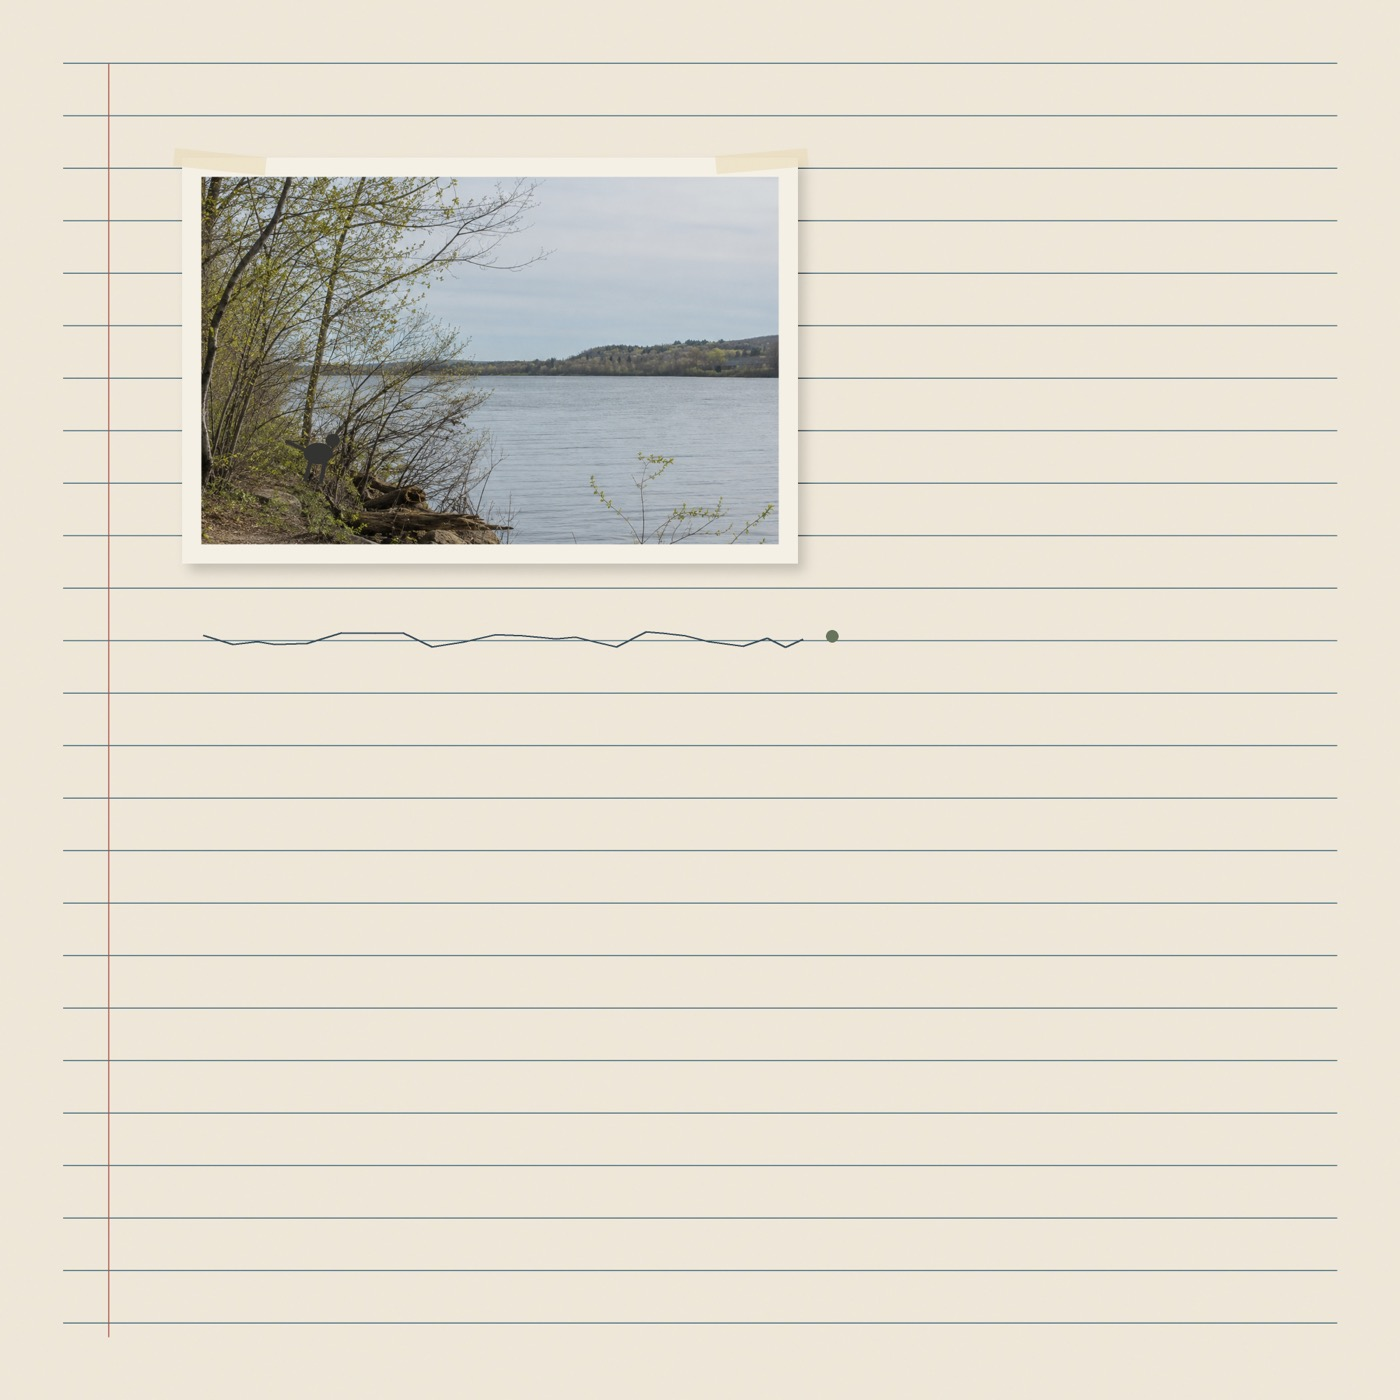
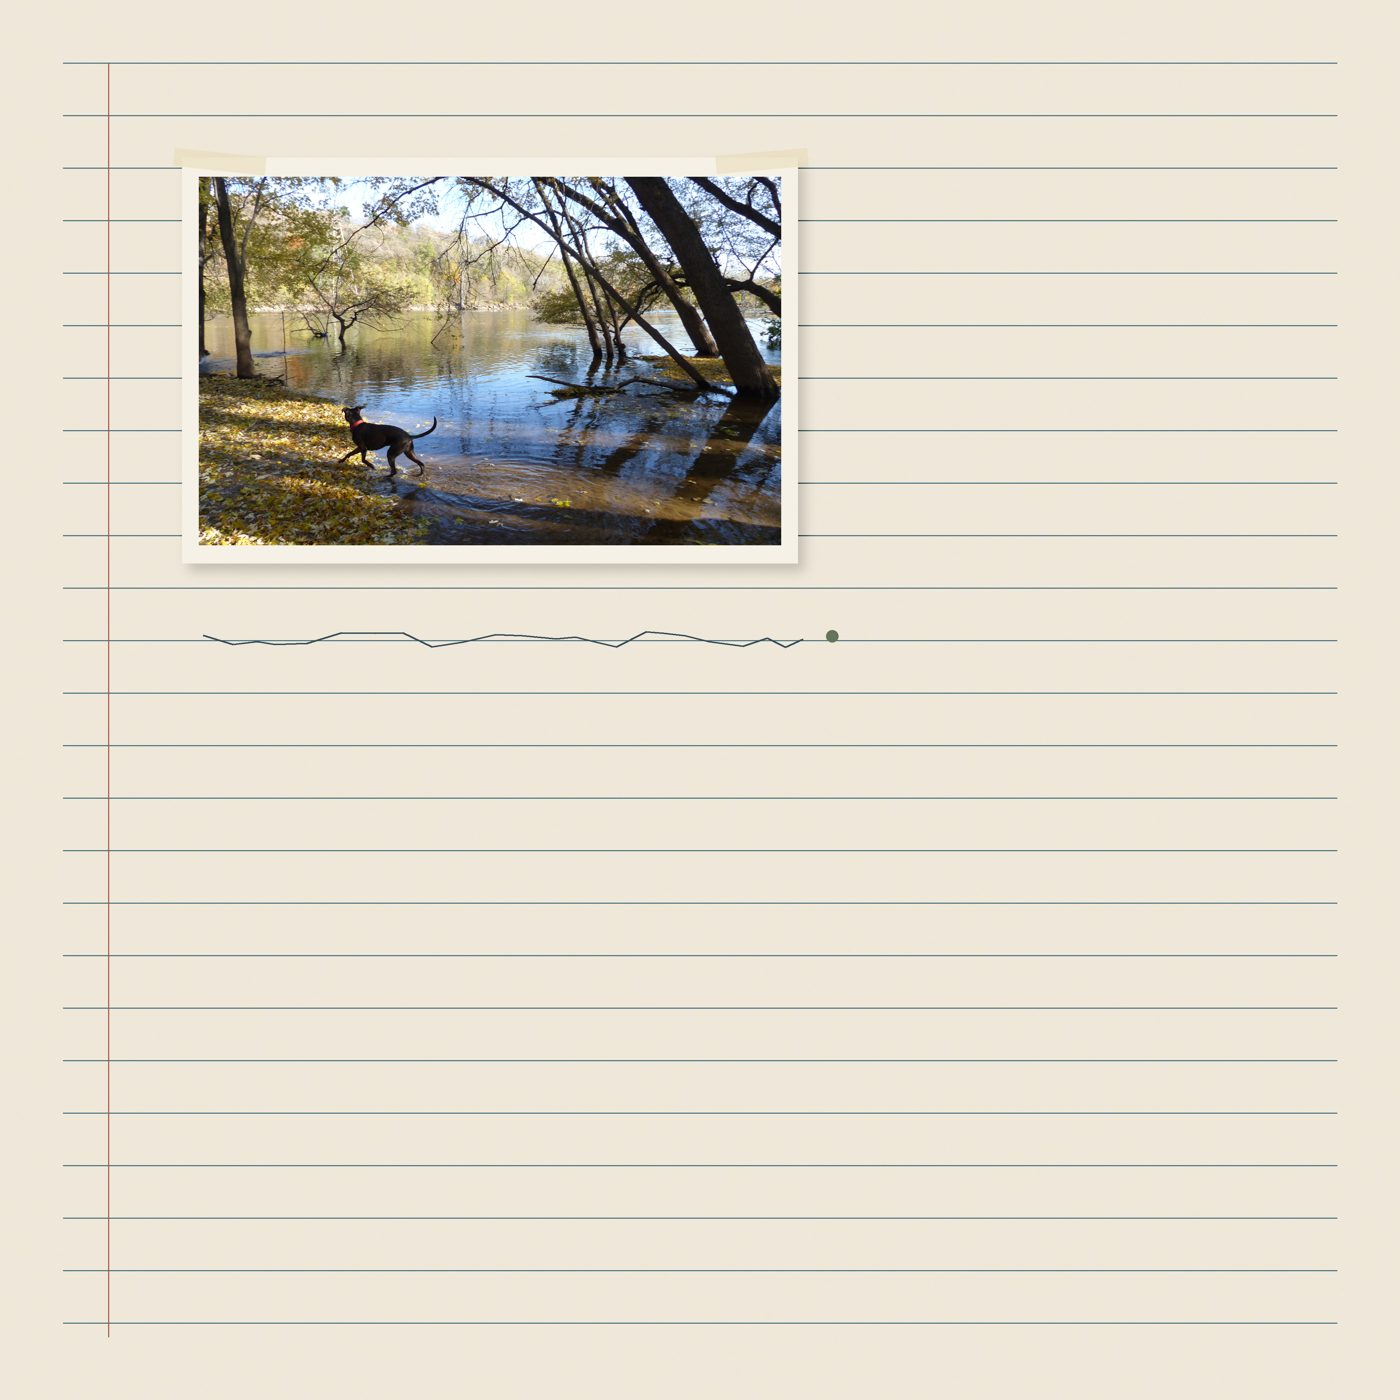
The dog steps into the water, and the notebook leaf stays a drawing

Changed region(s): [[0.1229, 0.1229, 0.5836, 0.3993]]

diff --git a/prompts/image-manifest.md b/prompts/image-manifest.md
@@ -35,7 +35,7 @@ the next build, so the proof PDF always shows exactly what has and has not been 
 | ordinary-days-01g3-tree-autumn | Most of Life Is a Tuesday | I — Look Again | Unplaced, recorded 21 Aug 2026. The file exists and this entry describes the spread it was made for, but it appears nowhere in the built book — verified against build/book.html, not inferred. The book reached its 130-page ceiling by cutting spreads (see book.config.js), and these entries were never updated when their spread went. Original spread: “Sequence (recto, strip of four) · 01G”. | overlays | The same stretch of lakeshore in autumn, identical framing, overprinted with that visit's measurements set in a small ruled block: leaf area 2.2 · day length 11h 18m · water 14 °C · 2 species calling. The photograph is unremarkable; the data is exact. | The route repeats. The world does not. | Frame of four in the sequence strip. The frame must not move between visits — the data is the only thing allowed to change. | 3:4 | 3600 × 4800 px | ordinary-days-01g3-tree-autumn.jpg | generated | — | Specimen color moss #68735B on the chip; the overlay block shifts to amber for this frame, so the strip reads as a color ramp across the seasons before a single figure is read. |
 | ordinary-days-01g4-tree-winter | Most of Life Is a Tuesday | I — Look Again | Unplaced, recorded 21 Aug 2026. The file exists and this entry describes the spread it was made for, but it appears nowhere in the built book — verified against build/book.html, not inferred. The book reached its 130-page ceiling by cutting spreads (see book.config.js), and these entries were never updated when their spread went. Original spread: “Sequence (recto, strip of four) · 01G”. | overlays | The same stretch of lakeshore in winter, identical framing, overprinted with that visit's measurements set in a small ruled block: leaf area 0.0 · day length 8h 54m · water 2 °C · silence. The photograph is unremarkable; the data is exact. | The route repeats. The world does not. | Frame of four in the sequence strip. The frame must not move between visits — the data is the only thing allowed to change. | 3:4 | 3600 × 4800 px | ordinary-days-01g4-tree-winter.jpg | generated | — | Specimen color moss #68735B on the chip; the overlay block shifts to rust for this frame, so the strip reads as a color ramp across the seasons before a single figure is read. |
 | ordinary-days-01i-kitchen-light | Most of Life Is a Tuesday | I — Look Again | Unplaced, recorded 21 Aug 2026. The file exists and this entry describes the spread it was made for, but it appears nowhere in the built book — verified against build/book.html, not inferred. The book reached its 130-page ceiling by cutting spreads (see book.config.js), and these entries were never updated when their spread went. Original spread: “Image + essay · band (crossover) · 01H”. | archival | An album leaf: one photograph of someone standing in kitchen light, corner-mounted, surrounded by the residue of an ordinary life — a grocery receipt, a note in handwriting, a pressed leaf, a ticket stub — arranged with care on aged cream. Nothing legible enough to read as text. | The extraordinary person, become the person in the kitchen. | Crossover band. The one place in the essay where the apparatus stops and the book just looks at somebody. | 2:1 | 8000 × 4000 px | ordinary-days-01i-kitchen-light.jpg | generated | — | Specimen color moss #68735B. Keep the figure fully on one page; nothing of interest within 15 mm of the fold. No measurement, no key, no diagram anywhere on this spread — it earns its silence by following six pages of instruments. |
-| ordinary-days-01j-quiet-close | Most of Life Is a Tuesday | I — Look Again | Closing spread (verso, full bleed) · 01I | field notes | The last leaf of a field notebook: one photograph taped in — late-afternoon lake, an empty path, or a dog walking away — with a single line of handwriting beneath it and three-quarters of the page left blank. The ruling shows through. | The book putting you back down where it found you. | Closing image. Not spectacular; that is the requirement, not a limitation. | 1:1 | 4000 × 4000 px | ordinary-days-01j-quiet-close.jpg | generated | — | Specimen color moss #68735B, used once, small. The blank is doing the work — do not fill it. |
+| ordinary-days-01j-quiet-close | Most of Life Is a Tuesday | I — Look Again | Closing spread (verso, full bleed) · 01I | field notes | The last leaf of a field notebook: one photograph taped in — a black dog stepping into the flooded edge of a river in late afternoon, autumn leaves down to the waterline, leaning trees doubled in still water — with a single line of handwriting beneath it and three-quarters of the page left blank. The ruling shows through. | The book putting you back down where it found you. | Closing image. Not spectacular; that is the requirement, not a limitation. The photograph is now the same afternoon the contact sheet three spreads earlier is drawn from — 23 minutes after the last of those three frames — so the essay ends on the end of the day it has been showing. | 1:1 | 4000 × 4000 px | ordinary-days-01j-quiet-close.jpg | generated | Chosen by eye from a 132-frame contact sheet of the whole 21 Oct 2018 walk. Deliberately not P1080372, which is another dog-nose-down-in-leaves and would echo both `walk-01` and the essay-08 opener. | Photograph replaced 22 Aug 2026. The taped-in image was generated and its own subject line could not decide what it showed: “late-afternoon lake, an empty path, OR a dog walking away.” It is now `P1080416.JPG`, Adam's, and it is the first two of those three things at once. Composited INTO the existing mount rather than replacing the plate: the ruled leaf, the tape, the print border, the illegible squiggle and the blank three-quarters are all original artwork and all untouched. Measured mount box 568,505–2232,1558 at 4000 px; the 4:3 original was cropped to the mount's 1.58 from 234 px down, which trims empty sky and keeps the dog, the bank and the reflections. THE PAGE AROUND THE PHOTOGRAPH IS STILL DRAWN — this entry reads `own photograph` because the photograph is the subject, but the leaf is a treatment. Specimen color moss #68735B, used once, small. The blank is doing the work — do not fill it. |
 | ordinary-days-01k-room-survey | Most of Life Is a Tuesday | I — Look Again | Unplaced, replaced 21 Aug 2026. The inset on the essay's third reading spread now carries `ordinary-days-01l-fabiola-sign`, and the spread's inset moved to the recto beside the prose about labels and the people underneath them. File kept on disk. | overlays | A sunlit living room surveyed in two inks: proportional rectangles, construction circles and dimension lines in faded cobalt over the window, sofa and table; branching rust hairlines following the monstera's growth and the light's path. A dog asleep in its bed at the right edge, measured like everything else. | A whole ordinary room, taken seriously enough to measure. | Companion to 01A's surveyed dog — the same joke told at room scale. Generated 20 Aug 2026 from the room-survey prompt; kept with an ID so it is ready the day a spread wants it. | 1:1 | 1254 × 1254 px (native — not upscaled) | ordinary-days-01k-room-survey.png | generated | undefined | Second generation. The first ran its survey at watermark strength and the linework vanished over bright areas; the prompt now names the two inks (cobalt #536D8E structure, rust #A95738 organic traces), demands full opacity and drafting rather than sketching, and forbids the fade over bright areas. Note the units came back imperial — if this is ever placed beside 01A, which is dimensioned in millimetres, regenerate with units named. Placed 20 Aug 2026 as the inset on the spread whose prose says ordinary reality becomes almost impossibly complex — the caption owns the imperial units instead of apologising for them. |
 | attention-01-familiar-room | The Secret Life of Attention | I — Look Again | Essay opener (verso, full page) | overlays | A sunlit living room in daylight: a sofa with cushions and a throw, a monstera and a windowsill of small pots, a framed botanical print and a large framed watercolour, a round coffee table with books and a mug, a dog asleep in a bed at the right. Overprinted with a figure-ground survey in two colors at equal weight — a blue-lake grid keyed to the room’s planes and coral traces keyed to what the eye actually follows. | How much is going on in a room somebody has stopped seeing. | Essay opener. The essay opens on a maple the author walked under for eleven years without seeing; the plate makes the same argument about the room he was walking home to. | 1:1 | 4000 × 4000 px | attention-01-familiar-room.jpg | generated | — | Was `attention-01-window-reflection` until 21 Aug 2026; the id named the brief, not the picture. Subject rewritten 21 Aug 2026 to describe the picture that exists. The brief asked for a lit second-floor window at dusk carrying a street-tree reflection, with two figure-ground traces on one surface; the generator returned a daylight interior, it was placed anyway, and the manifest kept describing the brief for weeks — which meant the alt text told a screen reader about a window at dusk while the page showed a living room. Specimen color lake #3E6B87 and coral, equal weight — if one trace recedes the plate has failed. |
 | attention-02-field-notes | The Secret Life of Attention | I — Look Again | Unplaced. Freed when the reproduced record took the pull-quote verso. | field notes | A field-guide plate of a single room drawn twice on one card: once complete in fine hairline ink, once as the four or five marks that survived being looked at. The second drawing sits beside the first at the same scale, mostly empty. | The paraphrase. What the editor kept. | Gives the pull quote something to argue with rather than decorate. | 1:1 | 4000 × 4000 px | attention-02-field-notes.png | generated | — | Specimen color lake #3E6B87 on the complete drawing; the surviving marks print in signal-bright so the eye finds them first. Same scale, same position — the comparison is the plate. Made and in the repo, currently not on any page. The pull-quote spread it held now carries the 31 inferred ad categories instead. |

diff --git a/content/plan/decisions.md b/content/plan/decisions.md
@@ -682,3 +682,39 @@ not because of pixels but because **the book currently shows four small crops of
 a walk it has 175 frames of.** If the contact sheet or the essay-08 opener is
 ever reconsidered, there is a whole afternoon to choose from rather than four
 squares somebody already picked.
+
+## The essay-01 closing photograph is real now, and the page around it is not — 22 Aug 2026, Adam's call
+
+"place P1080416." The closing plate of *Most of Life Is a Tuesday* is a drawn
+field-notebook leaf with a photograph taped to it, and the photograph was
+generated. Its own subject line could not decide what it showed: *"late-afternoon
+lake, an empty path, **or** a dog walking away."*
+
+**The photograph was swapped, not the plate.** The mount was measured
+(568,505–2232,1558 at 4000 px, axis-aligned, no rotation) and the real frame
+composited into it. The ruled leaf, the tape, the print border, the illegible
+squiggle and the blank three-quarters are original artwork and are untouched —
+including the instruction that came with them, *"the blank is doing the work —
+do not fill it."*
+
+That treatment was worth keeping and the imagery audit's own argument says why.
+The leaf does not pretend to be a moment that happened; it is openly a drawing,
+and a good one. What was wrong was the photograph inside it claiming to be a
+day. Now it is one: **21 Oct 2018, 3:34 p.m.** — the same walk the contact sheet
+three spreads earlier is drawn from, twenty-three minutes after the last of
+those three frames. The essay ends on the end of the afternoon it has been
+showing, under "Maybe the ordinary days were the important parts."
+
+Chosen from a 132-frame contact sheet of the whole walk, and deliberately not
+`P1080372`, which is lovely and is another dog-nose-down-in-leaves — it would
+have echoed both `walk-01` on the same spread and the essay-08 opener.
+
+The 4:3 original was cropped to the mount's 1.58, trimming empty sky from the
+top. The crop is better than the full frame, which is worth saying plainly: the
+mount's shape improved the photograph.
+
+**One honesty note carried in the entry.** It now reads `origin: own photograph`
+because the photograph is the subject, but `composite: true` and the revision
+both state that the leaf around it is still drawn. The book's tally of Adam's
+photographs should be read with that in mind — this is a real picture in a drawn
+mount, not a photograph of a notebook.
